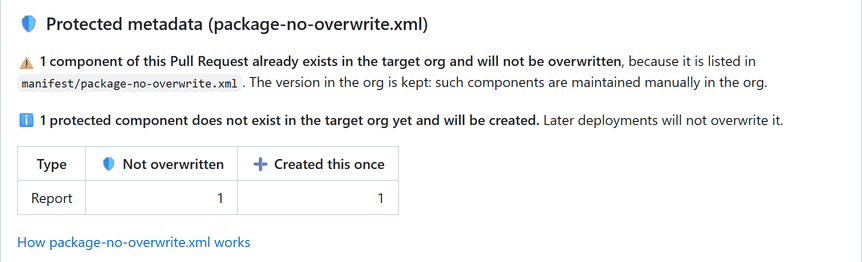
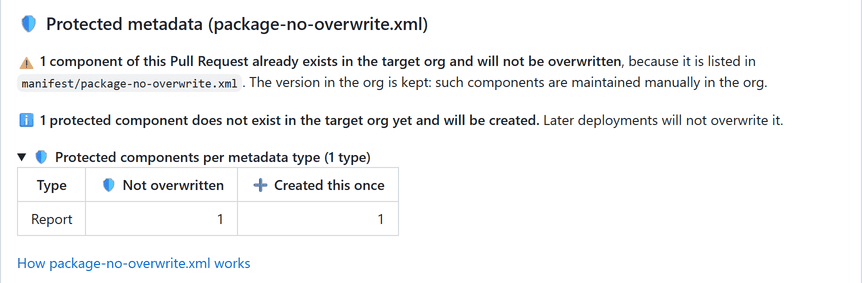
fix(deploy:smart): code coverage first in Pull Request comments, every table collapsed (#2304)
- The code coverage line comes right under the deployment status, before the counts
- The Protected metadata table per type and the Flow deletion table are in collapsed sections;
  their sentences and warnings stay visible
- Doc screenshots retaken from a real Pull Request with the new layout

diff --git a/src/commands/hardis/project/deploy/smart.ts b/src/commands/hardis/project/deploy/smart.ts
@@ -169,13 +169,13 @@ If necessary,you can define the following files:
   - Can be overridden for a branch using .sfdx-hardis.yml property **packageNoOverwritePath** or environment variable PACKAGE_NO_OVERWRITE_PATH (for example, define: \`packageNoOverwritePath: manifest/package-no-overwrite-main.xml\` in config file \`config/.sfdx-hardis.main.yml\`)
 - \`manifest/packageXmlOnChange.xml\`: Every element defined in this file will not be deployed if it already has a similar definition in target org (can be useful for SharingRules for example)
 
-When components of the deployment package are protected by \`package-no-overwrite.xml\`, the Pull Request comment has a **Protected metadata** section counting, per metadata type, the components already in the target org that are not overwritten, and the ones created this once.
+When components of the deployment package are protected by \`package-no-overwrite.xml\`, the Pull Request comment has a **Protected metadata** section counting the components already in the target org that are not overwritten, and the ones created this once, with a collapsed table per metadata type.
 
 See [Overwrite management documentation](${CONSTANTS.DOC_URL_ROOT}/salesforce-devops-config-overwrite/)
 
 ### Deployment components report
 
-The validation and deployment Pull Request comments count, per metadata type, the components the deployment creates, updates, deletes or fails to deploy. A validation comment calls its counts line **Simulated deployment**.
+The validation and deployment Pull Request comments open on the code coverage, right under the deployment status, then count the components the deployment creates, updates, deletes or fails to deploy, with a collapsed table per metadata type. A validation comment calls its counts line **Simulated deployment**. Every table of these comments, Flow deletion included, is collapsed by default.
 
 ![Validation Pull Request comment with the components per metadata type and the protected metadata](https://github.com/hardisgroupcom/sfdx-hardis/raw/main/docs/assets/images/screenshot-deployment-components-pr-comment.png)
 

diff --git a/src/common/gitProvider/index.ts b/src/common/gitProvider/index.ts
@@ -240,8 +240,13 @@ export abstract class GitProvider {
     if (prData && gitProvider && prCommentSent === false) {
       uxLog("warning", this, c.yellow('[Git Provider] ' + t('gitProviderPostingPrComment')));
       let markdownBody = "";
+      // Code coverage first, right under the status line of the title: it is the other verdict a
+      // reviewer reads before anything else
+      if (prData.codeCoverageMarkdownBody) {
+        markdownBody += prData.codeCoverageMarkdownBody;
+      }
       if (prData.deployErrorsMarkdownBody) {
-        markdownBody += prData.deployErrorsMarkdownBody;
+        markdownBody += (markdownBody ? "\n\n" : "") + prData.deployErrorsMarkdownBody;
       }
       if (prData?.autoFixPullRequestUrl) {
         markdownBody += `\n\n---\n🤖 **A coding agent created a fix pull request:** [View fix PR](${prData.autoFixPullRequestUrl})`;
@@ -254,9 +259,6 @@ export abstract class GitProvider {
       }
       if (prData.noOverwriteMarkdownBody) {
         markdownBody += "\n\n" + prData.noOverwriteMarkdownBody;
-      }
-      if (prData.codeCoverageMarkdownBody) {
-        markdownBody += "\n\n" + prData.codeCoverageMarkdownBody;
       }
       // Explain the Quick Deploy mechanics so "Apex tests: none run" on the merge job does not read
       // as an anomaly. No promise when quick deploy is disabled or the validation ran no tests:

diff --git a/src/common/utils/deploymentComponentsReport.ts b/src/common/utils/deploymentComponentsReport.ts
@@ -242,7 +242,18 @@ export function buildNoOverwriteMarkdown(
     ...(showCreatedOnce ? [{ status: 'Created' as DeploymentComponentStatus, title: '➕ Created this once' }] : []),
   ];
   const protectedRows = rows.filter((row) => row.noOverwriteFile !== '' && (row.status === 'Not overwritten' || row.status === 'Created'));
-  lines.push(...buildCountsPerTypeTable(protectedRows, columns), '');
+  // Collapsed: a project can protect hundreds of components, and the sentences above already say
+  // how many. The table is there for whoever wants the split per type.
+  const typeCount = new Set(protectedRows.filter((row) => columns.some((column) => column.status === row.status)).map((row) => row.type)).size;
+  lines.push(
+    '<details>',
+    `<summary>🛡 <b>Protected components per metadata type (${countOf(typeCount, 'type')})</b></summary>`,
+    '',
+    ...buildCountsPerTypeTable(protectedRows, columns),
+    '',
+    '</details>',
+    ''
+  );
   lines.push(`[How package-no-overwrite.xml works](${CONSTANTS.DOC_URL_ROOT}/salesforce-devops-config-overwrite/)`);
   return lines.join('\n');
 }

diff --git a/src/common/utils/flowDeletionUtils.ts b/src/common/utils/flowDeletionUtils.ts
@@ -1110,6 +1110,11 @@ export function buildFlowDeletionMarkdown(
     lines.push(t('flowDeletionMarkdownPreflightNote'));
     lines.push('');
   }
+  // The table is collapsed, like every table of the deployment comment: the warnings below it stay
+  // visible, because they are what a reviewer has to act on.
+  lines.push('<details>');
+  lines.push(`<summary>📋 <b>${t('flowDeletionMarkdownTableSummary', { count: outcomes.length })}</b></summary>`);
+  lines.push('');
   lines.push(`| ${columns.map((column) => t(column.markdownHeaderKey)).join(' | ')} |`);
   lines.push(`| ${columns.map((column) => column.markdownAlign).join(' | ')} |`);
   for (const outcome of outcomes) {
@@ -1117,6 +1122,8 @@ export function buildFlowDeletionMarkdown(
   }
   lines.push('');
   lines.push(t('flowDeletionMarkdownFooter'));
+  lines.push('');
+  lines.push('</details>');
   // Interviews the deletion still has to destroy: irreversible, so it gets its own warning line
   // instead of hiding in a table cell.
   const interviewsPendingDeletion = outcomes

diff --git a/test/common/utils/deploymentComponentsReport.test.ts b/test/common/utils/deploymentComponentsReport.test.ts
@@ -162,6 +162,11 @@ describe('deploymentComponentsReport', () => {
     expect(markdown).to.contain('such components are maintained manually in the org');
     expect(markdown).to.contain('**1 protected component does not exist in the target org yet and will be created.**');
     expect(markdown).to.contain('| Type | 🛡 Not overwritten | ➕ Created this once |');
+    // The sentences stay visible, the table per type is collapsed
+    expect(markdown.indexOf('**3 components of this Pull Request')).to.be.lessThan(markdown.indexOf('<details>'));
+    expect(markdown).to.contain('<summary>🛡 <b>Protected components per metadata type (2 types)</b></summary>');
+    expect(markdown.indexOf('| Type |')).to.be.greaterThan(markdown.indexOf('<details>'));
+    expect(markdown.indexOf('| Type |')).to.be.lessThan(markdown.indexOf('</details>'));
     expect(markdown).to.contain('| EmailTemplate | 1 |  |');
     expect(markdown).to.contain('| ListView | 2 | 1 |');
     expect(markdown).to.contain('/salesforce-devops-config-overwrite/');

diff --git a/test/common/utils/flowDeletionUtils.test.ts b/test/common/utils/flowDeletionUtils.test.ts
@@ -1219,6 +1219,18 @@ describe('buildFlowDeletionMarkdown', () => {
     return markdown.split('\n').find((line) => line.startsWith(startsWith)) || '';
   }
 
+  it('collapses the table and keeps the interviews warning visible', () => {
+    const markdown = buildFlowDeletionMarkdown([outcome({ deleteInterviewsAllowed: true, interviewCount: 3 })]);
+    const opening = markdown.indexOf('<details>');
+    const closing = markdown.indexOf('</details>');
+    expect(opening).to.be.greaterThan(-1);
+    expect(markdown.indexOf('| ')).to.be.greaterThan(opening);
+    expect(markdown.indexOf('| ')).to.be.lessThan(closing);
+    expect(markdown).to.contain('<summary>📋 <b>1 Flow(s) and their versions</b></summary>');
+    // The irreversible part is outside the collapsed block
+    expect(markdown.indexOf('⚠')).to.be.greaterThan(closing);
+  });
+
   it('lists the Flow, its versions and its active version', () => {
     const markdown = buildFlowDeletionMarkdown([outcome()]);
     expect(markdown).to.contain('`MyFlow`');

diff --git a/docs/hardis/project/deploy/smart.md b/docs/hardis/project/deploy/smart.md
@@ -121,13 +121,13 @@ If necessary,you can define the following files:
   - Can be overridden for a branch using .sfdx-hardis.yml property **packageNoOverwritePath** or environment variable PACKAGE_NO_OVERWRITE_PATH (for example, define: `packageNoOverwritePath: manifest/package-no-overwrite-main.xml` in config file `config/.sfdx-hardis.main.yml`)
 - `manifest/packageXmlOnChange.xml`: Every element defined in this file will not be deployed if it already has a similar definition in target org (can be useful for SharingRules for example)
 
-When components of the deployment package are protected by `package-no-overwrite.xml`, the Pull Request comment has a **Protected metadata** section counting, per metadata type, the components already in the target org that are not overwritten, and the ones created this once.
+When components of the deployment package are protected by `package-no-overwrite.xml`, the Pull Request comment has a **Protected metadata** section counting the components already in the target org that are not overwritten, and the ones created this once, with a collapsed table per metadata type.
 
 See [Overwrite management documentation](https://sfdx-hardis.cloudity.com/salesforce-devops-config-overwrite/)
 
 ### Deployment components report
 
-The validation and deployment Pull Request comments count, per metadata type, the components the deployment creates, updates, deletes or fails to deploy. A validation comment calls its counts line **Simulated deployment**.
+The validation and deployment Pull Request comments open on the code coverage, right under the deployment status, then count the components the deployment creates, updates, deletes or fails to deploy, with a collapsed table per metadata type. A validation comment calls its counts line **Simulated deployment**. Every table of these comments, Flow deletion included, is collapsed by default.
 
 ![Validation Pull Request comment with the components per metadata type and the protected metadata](https://github.com/hardisgroupcom/sfdx-hardis/raw/main/docs/assets/images/screenshot-deployment-components-pr-comment.png)
 

diff --git a/docs/salesforce-devops-config-overwrite.md b/docs/salesforce-devops-config-overwrite.md
@@ -76,11 +76,11 @@ The job logs describe each of these steps:
 
 #### See what is protected in the Pull Request
 
-The validation and deployment Pull Request comments have a **Protected metadata** section when the Pull Request contains protected items. It counts, per metadata type, the items already in the target org that are not overwritten, and the items created this once.
+The validation and deployment Pull Request comments have a **Protected metadata** section when the Pull Request contains protected items. It says how many items already in the target org are not overwritten, and how many are created this once, and a collapsed table splits them per metadata type.
 
 ![Protected metadata section of a validation Pull Request comment](assets/images/screenshot-package-no-overwrite-pr-comment.png)
 
-The same comment counts, per metadata type, what the deployment creates, updates and deletes:
+The same comment opens on the code coverage, then counts what the deployment creates, updates and deletes, with a collapsed table per metadata type:
 
 ![Validation Pull Request comment with the components per metadata type and the protected metadata](assets/images/screenshot-deployment-components-pr-comment.png)
 

diff --git a/CHANGELOG.md b/CHANGELOG.md
@@ -2,6 +2,7 @@
 
 ## [beta] (main)
 
+- [hardis:project:deploy:smart](https://sfdx-hardis.cloudity.com/hardis/project/deploy/smart/): the code coverage comes first in Pull Request comments, and the protected metadata and Flow deletion tables are collapsed by default.
 - [hardis:project:deploy:smart](https://sfdx-hardis.cloudity.com/hardis/project/deploy/smart/#deployment-components-report): Pull Request comments count the deployed components per metadata type, show the components protected by package-no-overwrite.xml, and an Excel report lists every component.
 - New [Aha! integration](https://sfdx-hardis.cloudity.com/salesforce-devops-setup-integration-aha/): Aha! features are listed in Pull Request comments and notifications, and get a comment and a tag when they are deployed.
 - When `ticketingProvider` is defined in `.sfdx-hardis.yml`, ticket references are only looked for with that ticketing provider.
